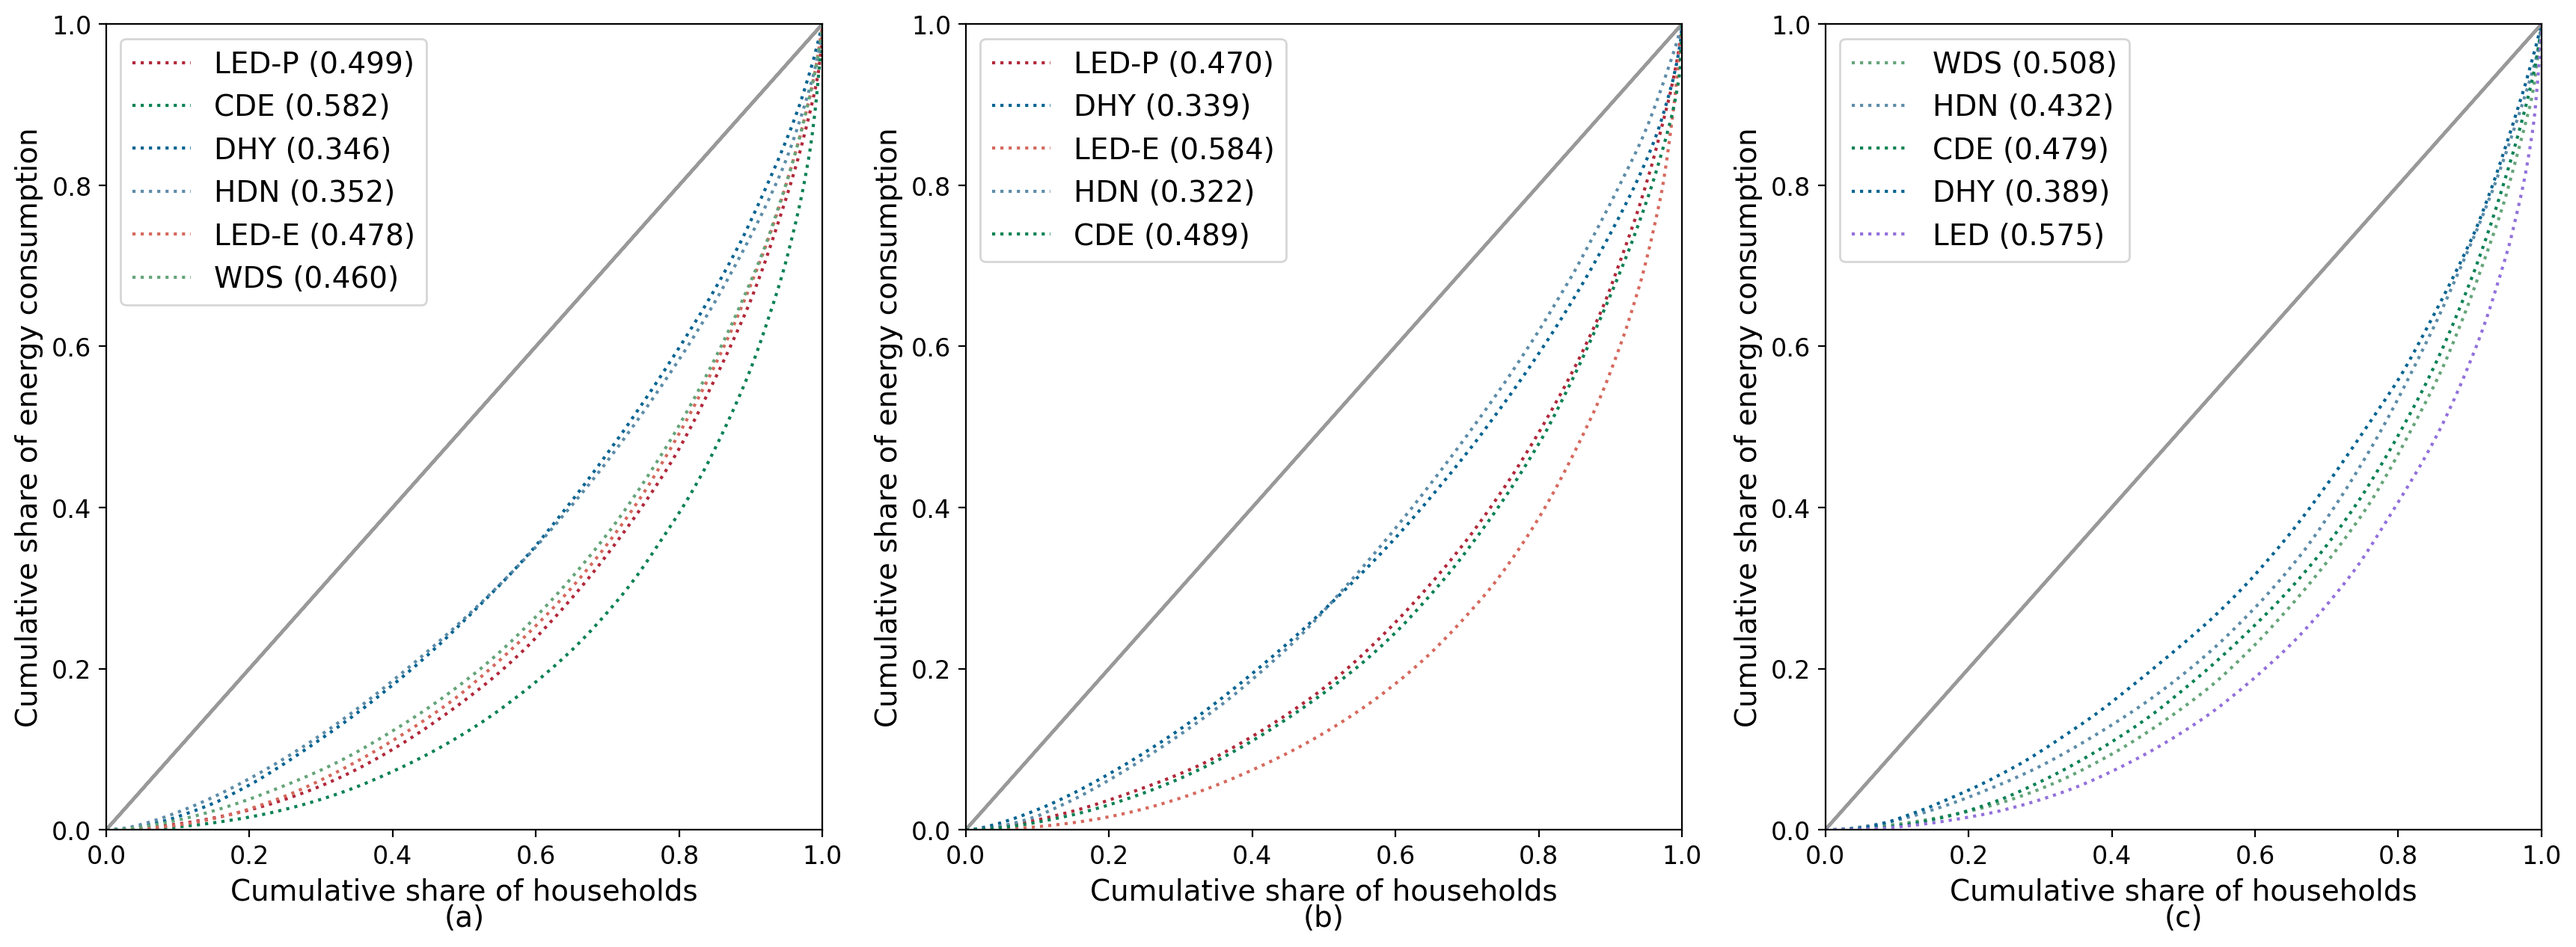
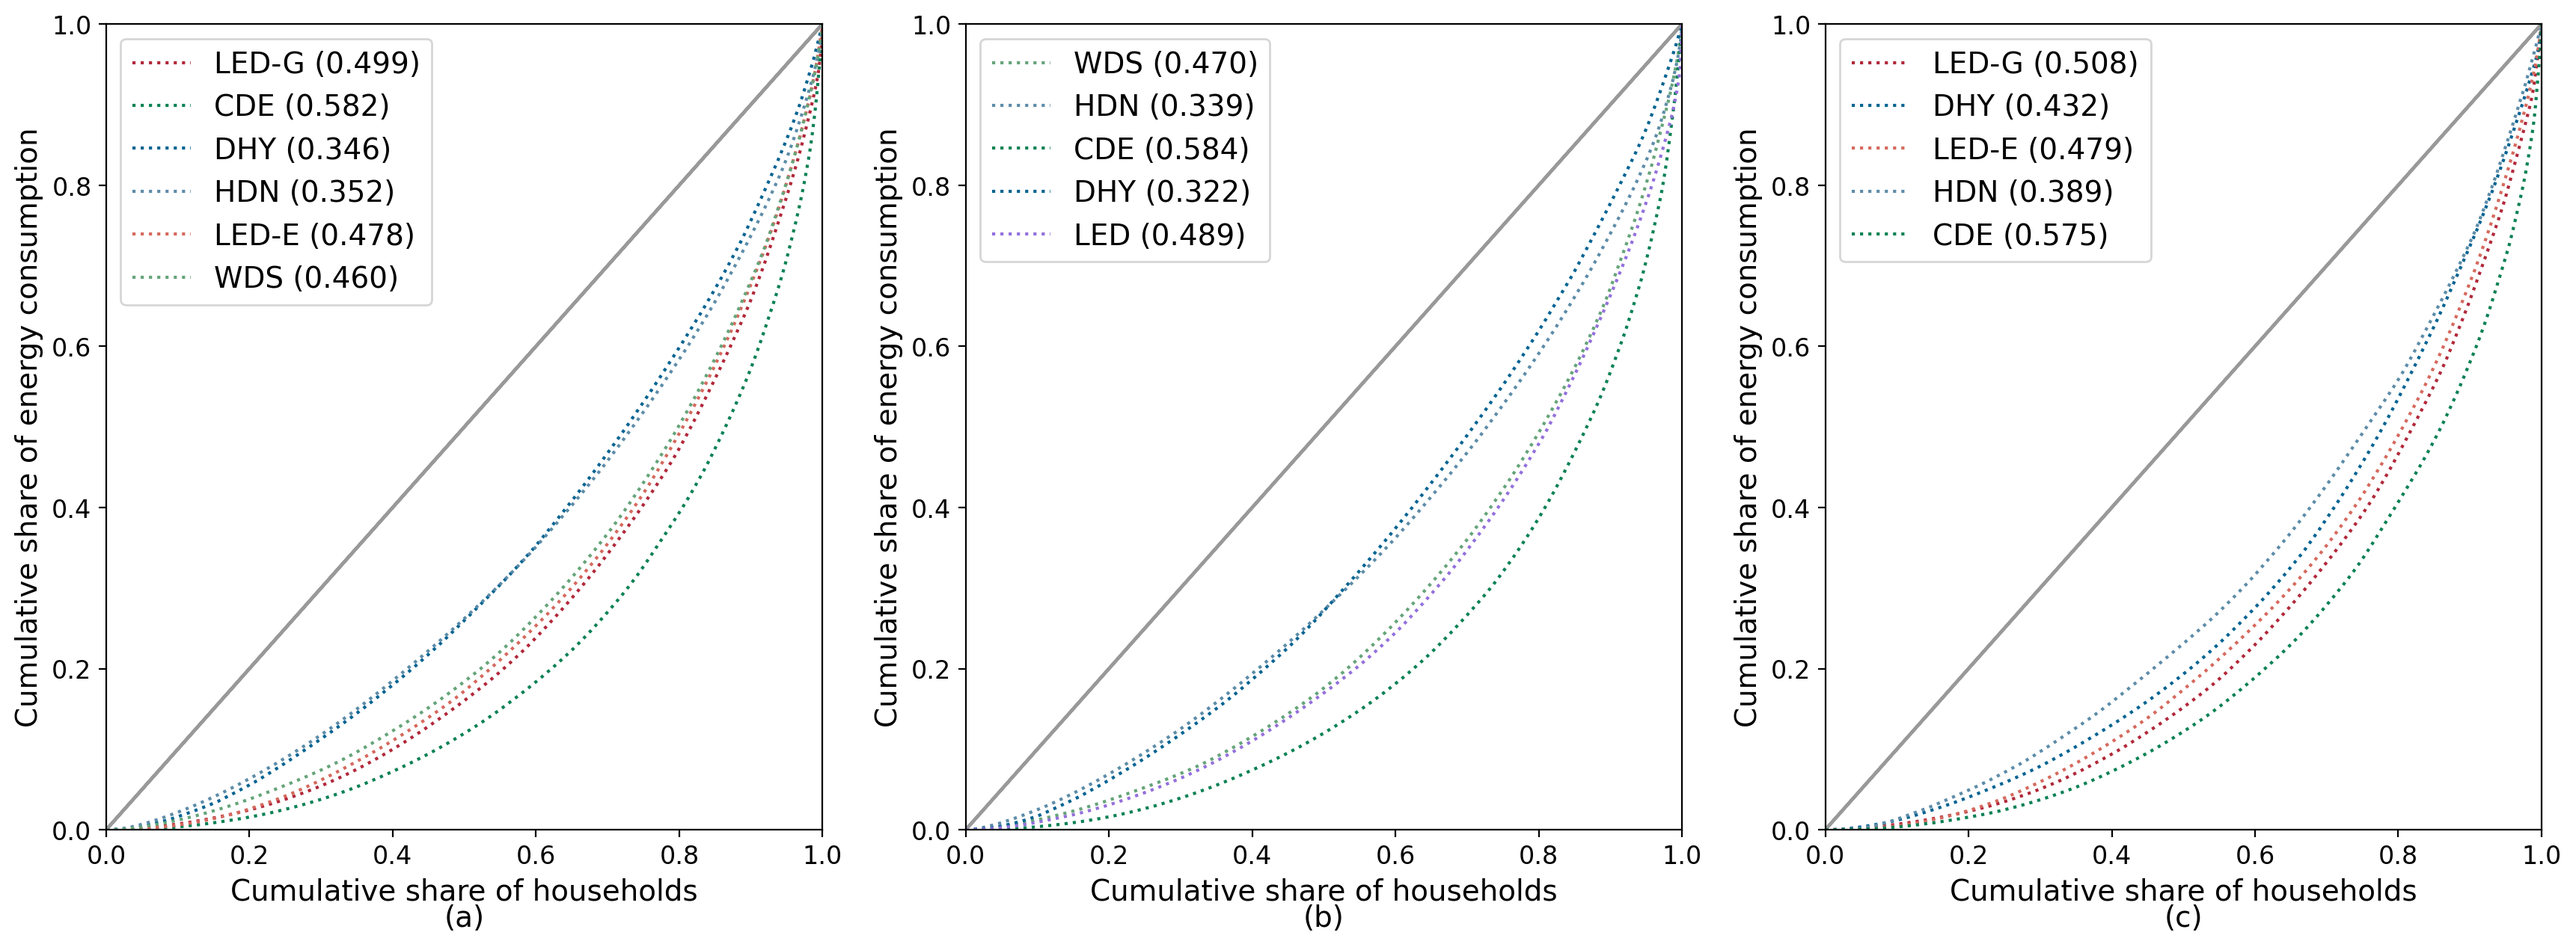
the latest codes and configs for the manuscript for Cities

diff --git a/result_one.py b/result_one.py
@@ -17,7 +17,7 @@ from config import WSJ, VAR_MAPPING
 from config import CLUSTER_MAPPING_2024 as CLUSTER_MAPPING
 
 # assign colors to groups
-COLORS = {'LED-P': 'darkred',
+COLORS = {'LED-G': 'darkred',
           'CDE': 'darkgreen',
           'DHY': 'darkblue',
           'HDN': 'lightblue',
@@ -38,23 +38,30 @@ def scale(data: pd.DataFrame, vars: list = []):
     return scaled
 
 
-def get_data(data: pd.DataFrame):
-    me = data[['en_total_percap', 'cluster']].groupby('cluster').mean()
+def get_data(data: pd.DataFrame, keys: list):
+    zero_unsafe_keys = ['freq_cooking', 'time_cooking', 'power_cooking',
+                        'time_water_heater', 'freq_water_heater', 'label_water_heater',
+                        'time_ac', 'freq_ac', 'power_ac',
+                        'time_heating', 'area_heating']
+    for k in zero_unsafe_keys:
+        data[k] = data[k].replace(0, np.nan)
+
+    me = data[keys + ['cluster']].groupby('cluster').agg(np.nanmean)
     me.index = [CLUSTER_MAPPING['all'][i][1] for i in me.index]
 
     mask_urban = data['cluster_urban'].isna()
-    me_urban = data.loc[~mask_urban, ['en_total_percap', 'cluster_urban']].groupby('cluster_urban').mean()
+    me_urban = data.loc[~mask_urban, keys + ['cluster_urban']].groupby('cluster_urban').agg(np.nanmean)
     me_urban.index = [CLUSTER_MAPPING['urban'][i][1] for i in me_urban.index]
 
     mask_urban = data['cluster_rural'].isna()
-    me_rural = data.loc[~mask_urban, ['en_total_percap', 'cluster_rural']].groupby('cluster_rural').mean()
+    me_rural = data.loc[~mask_urban, keys + ['cluster_rural']].groupby('cluster_rural').agg(np.nanmean)
     me_rural.index = [CLUSTER_MAPPING['rural'][i][1] for i in me_rural.index]
     return me, me_urban, me_rural
 
 
 def bar(data: pd.DataFrame):
     # get resident type based and cluster based data
-    me, me_urban, me_rural = get_data(data)
+    me, me_urban, me_rural = get_data(data, ['en_total_percap'])
 
     # make the figure
     fig, axes = plt.subplots(1, 3, sharey=False, figsize=(15, 8))
@@ -86,15 +93,16 @@ def bar(data: pd.DataFrame):
     plt.legend(handles=patches, bbox_to_anchor=(1, 1))
     plt.savefig('data/img-0223/percap-energy-by-cluster.png', dpi=200, bbox_inches='tight')
     plt.show()
+    return me, me_urban, me_rural
 
 
 def heatmap(data: pd.DataFrame):
     # list variables that should be summarised
-    general = ['region', 'age', 'elderly_num', 'children_num', 'outside',
-               'raw_income', 'expenditure']
-    cooking = ['freq_cooking', 'time_cooking']
-    temperature = ['num_water_heater', 'time_water_heater', 'freq_water_heater',
-                   'num_ac', 'time_ac', 'freq_ac',
+    general = ['region', 'size', 'age', 'elderly_num', 'children_num', 'if_grandparentKids',
+               'outside', 'raw_income', 'expenditure']
+    cooking = ['freq_cooking', 'time_cooking', 'power_cooking']
+    temperature = ['num_water_heater', 'time_water_heater', 'freq_water_heater', 'label_water_heater',
+                   'num_ac', 'time_ac', 'freq_ac', 'power_ac',
                    'time_heating', 'area_heating']
     vehicle = ['vehicle_num', 'vehicle_dist']
     compress = ['en_ac', 'en_computer', 'en_freezing', 'en_laundry', 'en_lighting', 'en_television']
@@ -108,33 +116,29 @@ def heatmap(data: pd.DataFrame):
 
     # NB. the final list of variables
     vscale = general + cooking + temperature + vehicle + energy
-    durban, drural = data[data['resident'] == 1], data[data['resident'] == 0]
-    me = data[vscale + ['cluster']].groupby('cluster').mean()
+    me, me_urban, me_rural = get_data(data, vscale)
     me = scale(me, vscale)
-    me_urban = durban[vscale + ['cluster_urban']].groupby('cluster_urban').mean()
     me_urban = scale(me_urban, vscale)
-    me_rural = drural[vscale + ['cluster_rural']].groupby('cluster_rural').mean()
     me_rural = scale(me_rural, vscale)
+
     # restore x-axis labels
     xlabels = [VAR_MAPPING[i] for i in vscale]
-    # reset the index
-    me.index = [CLUSTER_MAPPING['all'][i][1] for i in me.index]
-    me_urban.index = [CLUSTER_MAPPING['urban'][i][1] for i in me_urban.index]
-    me_rural.index = [CLUSTER_MAPPING['rural'][i][1] for i in me_rural.index]
 
-    titles = ['(a)', '(b)', '(c)']
+    titles = ['(c)', '(b)', '(a)']
     fig, axes = plt.subplots(3, 1, sharex=True, figsize=(16, 10))
-    for idx, g in enumerate([me, me_urban, me_rural]):
+    for idx, g in enumerate([me_rural, me_urban, me]):
         # make the figure
         im = sns.heatmap(g, cmap="RdYlGn_r", cbar=False, ax=axes[idx], linewidth=1, alpha=0.8)
-        axes[idx].set_yticklabels(labels=g.index, rotation=0, fontsize=12)
-        axes[idx].set_ylabel(ylabel=f'{titles[idx]}', rotation=0, fontsize=14, labelpad=20)
-        axes[idx].set_xticklabels(labels=xlabels, fontsize=12, rotation=90, horizontalalignment='right')
+        axes[idx].set_yticklabels(labels=g.index, rotation=60, fontsize=14)
+        axes[idx].set_ylabel(ylabel=f'{titles[idx]}', rotation=90, fontsize=14, labelpad=12)
+        axes[idx].set_xticklabels(labels=xlabels, fontsize=14, rotation=90, horizontalalignment='center')
 
     mappable = im.get_children()[0]
-    plt.colorbar(mappable, ax=axes, orientation='vertical')
+    cbar = plt.colorbar(mappable, ax=axes, pad=0.02, orientation='vertical')
+    cbar.ax.tick_params(rotation=90, labelsize=14)
     plt.savefig('data/img-0223/heatmap.png', dpi=200, bbox_inches='tight')
     plt.show()
+    return me, me_urban, me_rural
 
 
 if __name__ == '__main__':
@@ -143,5 +147,13 @@ if __name__ == '__main__':
     data = pd.read_excel(clusterfile)
 
     # make figures
-    bar(data)
-    heatmap(data)
+    m, u, r = bar(data)
+    m, u, r = heatmap(data)
+
+    # summarise data
+    keys = ['freq_cooking', 'time_cooking', 'power_cooking',
+            'num_water_heater', 'time_water_heater', 'freq_water_heater', 'label_water_heater',
+            'num_ac', 'time_ac', 'freq_ac', 'power_ac', 'label_ac',
+            'time_heating', 'area_heating',
+            'en_vehicle', 'en_cooking', 'en_total']
+    m, u, r = get_data(data, keys=keys)

diff --git a/config.py b/config.py
@@ -48,19 +48,19 @@ VAR_MAPPING = {
     "log_raw_income": "Annual income(log)",
     "num_cooking": "No. of cookers",
     "power_cooking": "Mean power of cookers",
-    "freq_cooking": "Mean use frequency of\ncookers",
+    "freq_cooking": "Mean use frequency of cookers",
     "time_cooking": "Mean use time of cookers",
     "num_water_heater": "No. of water heaters",
-    "freq_water_heater": "Mean use frequency of\nwater heaters",
-    "time_water_heater": "Mean use time of\nwater heaters",
-    "label_water_heater": "Mean energy efficiency\nof water heaters",
+    "freq_water_heater": "Mean use frequency of water heaters",
+    "time_water_heater": "Mean use time of water heaters",
+    "label_water_heater": "Mean energy efficiency of water heaters",
     "num_ac": "No. of air conditioners",
-    "freq_ac": "Mean use frequency of\nair conditioners",
+    "freq_ac": "Mean use frequency of air conditioners",
     "power_ac": "Mean power of air conditioners",
-    "time_ac": "Mean use time of\nair conditioners",
-    "label_ac": "Mean energy efficiency of\nair conditioners",
+    "time_ac": "Mean use time of air conditioners",
+    "label_ac": "Mean energy efficiency of air conditioners",
     "type_heating": "Type of space heating",
-    "time_heating": "Mean use time of\nspace heating",
+    "time_heating": "Mean use time of space heating",
     "area_heating": "Space heating area",
     "cost_heating": "Annual cost of space heating",
     "own_vehicle": "Vehicle ownership",
@@ -75,13 +75,13 @@ VAR_MAPPING = {
     "outside": "Stay out days",
     "live_days": "Stay home days",
     "if_single_elderly": "Is single elderly family",
-    "if_singleAE": "Is single adult with \nelderly family",
+    "if_singleAE": "Is single adult with elderly family",
     "if_singleA": "Is single adult only family",
     "if_couple_elderly": "Is couple elderly family",
     "if_coupleA": "Is couple adults family",
     "if_singleWithChildren": "Is single family with children",
     "if_coupleWithChildren": "Is couple family with children",
-    "if_grandparentKids": "Is family with grandparents and children",
+    "if_grandparentKids": "Is grandparenting family",
     "if_bigFamily": "Is big family",
     "if_existElderly": "Is family with the elderly",
     "if_existChildren": "Is family with children",
@@ -119,21 +119,21 @@ CLUSTER_MAPPING_2023 = {
 
 CLUSTER_MAPPING_2024 = {
     "all": {
-        0: ['Less-energy-demanded grandparenting family', 'LED-P'],
+        0: ['Less-energy-demanded grandparenting family', 'LED-G'],
         1: ['Cooking-demanded elderly family', 'CDE'],
         2: ['Driving-demanded high-income younger family', 'DHY'],
         3: ['Heating-demanded northern family', 'HDN'],
         4: ['Less-energy-demanded extended family', 'LED-E'],
         5: ['Water-heating-demanded southern family', 'WDS']
     },
-    "urban": {
-        0: ['Less-energy-demanded grandparenting family', 'LED-P'],
+    "rural": {
+        0: ['Less-energy-demanded grandparenting family', 'LED-G'],
         1: ['Driving-demanded high-income younger family', 'DHY'],
         2: ['Less-energy-demanded extended family', 'LED-E'],
         3: ['Heating-demanded northern family', 'HDN'],
         4: ['Cooking-demanded elderly family', 'CDE']
     },
-    "rural": {
+    "urban": {
         0: ['Water-heating-demanded southern family', 'WDS'],
         1: ['Heating-demanded northern family', 'HDN'],
         2: ['Cooking-demanded elderly family', 'CDE'],

diff --git a/result_three.py b/result_three.py
@@ -57,10 +57,12 @@ def inequality_no_cluster(data: pd.DataFrame, save: Path):
     arr2 = [data[k].dropna().values for k in components]
     # make the figure
     titles = ['(a)', '(b)']
+    gi = []
     fig, axes = plt.subplots(1, 2, sharey=False, figsize=(16, 8))
     for idx, (label, array) in enumerate(zip([label1, label2], [arr1, arr2])):
         for i, a in enumerate(array):
             g = gini(a)
+            gi += [g]
             lo = lorenz(a)
             # we need the X values to be between 0.0 to 1.0
             c = list(WSJ.values())[i]
@@ -79,6 +81,7 @@ def inequality_no_cluster(data: pd.DataFrame, save: Path):
 
     plt.savefig(save / 'inequality-region+energies.png', dpi=200, bbox_inches='tight')
     plt.show()
+    return gi
 
 
 def inequality_with_cluster(data: pd.DataFrame, save: Path):
@@ -105,10 +108,12 @@ def inequality_with_cluster(data: pd.DataFrame, save: Path):
 
     # make the figure with 3 subplots
     titles = ['(a)', '(b)', '(c)']
+    gi = []
     fig, axes = plt.subplots(1, 3, sharey=False, figsize=(21, 7))
     for idx, (label, array) in enumerate(zip([label1, label2, label3], [arr1, arr2, arr3])):
         for i, a in enumerate(array):
             g = gini(a)
+            gi += [g]
             lo = lorenz(a)
             # we need the X values to be between 0.0 to 1.0
             c = WSJ[COLORS[label[i]]]
@@ -127,6 +132,7 @@ def inequality_with_cluster(data: pd.DataFrame, save: Path):
 
     plt.savefig(save / 'inequality-clustered.png', dpi=200, bbox_inches='tight')
     plt.show()
+    return gi
 
 
 def inequality(*arrays, labels: list, name: str, save: Path):
@@ -178,8 +184,15 @@ if __name__ == '__main__':
     data = nocluster[nocluster['en_total'] > 0]
     print(f'Got {len(data)} and removed {len(nocluster) - len(data)} records!')
 
+    # the general GINI coef of all samples before clustering
+    g = gini(data['en_total'].values)
+    print(f'General GINI: {g}')
+
     # compute GINI coefs for urban, rural, north, south and components
-    inequality_no_cluster(data, save)
+    gi_no_cluster = inequality_no_cluster(data, save)
 
     # compute GINI coefs for all, urban, rural samples with clusters
-    inequality_with_cluster(cluster, save)
+    gi_cluster = inequality_with_cluster(cluster, save)
+    for i in [(0, 6), (6, 11), (11, 16)]:
+        g = gi_cluster[i[0]: i[1]]
+        print(np.mean(g))
